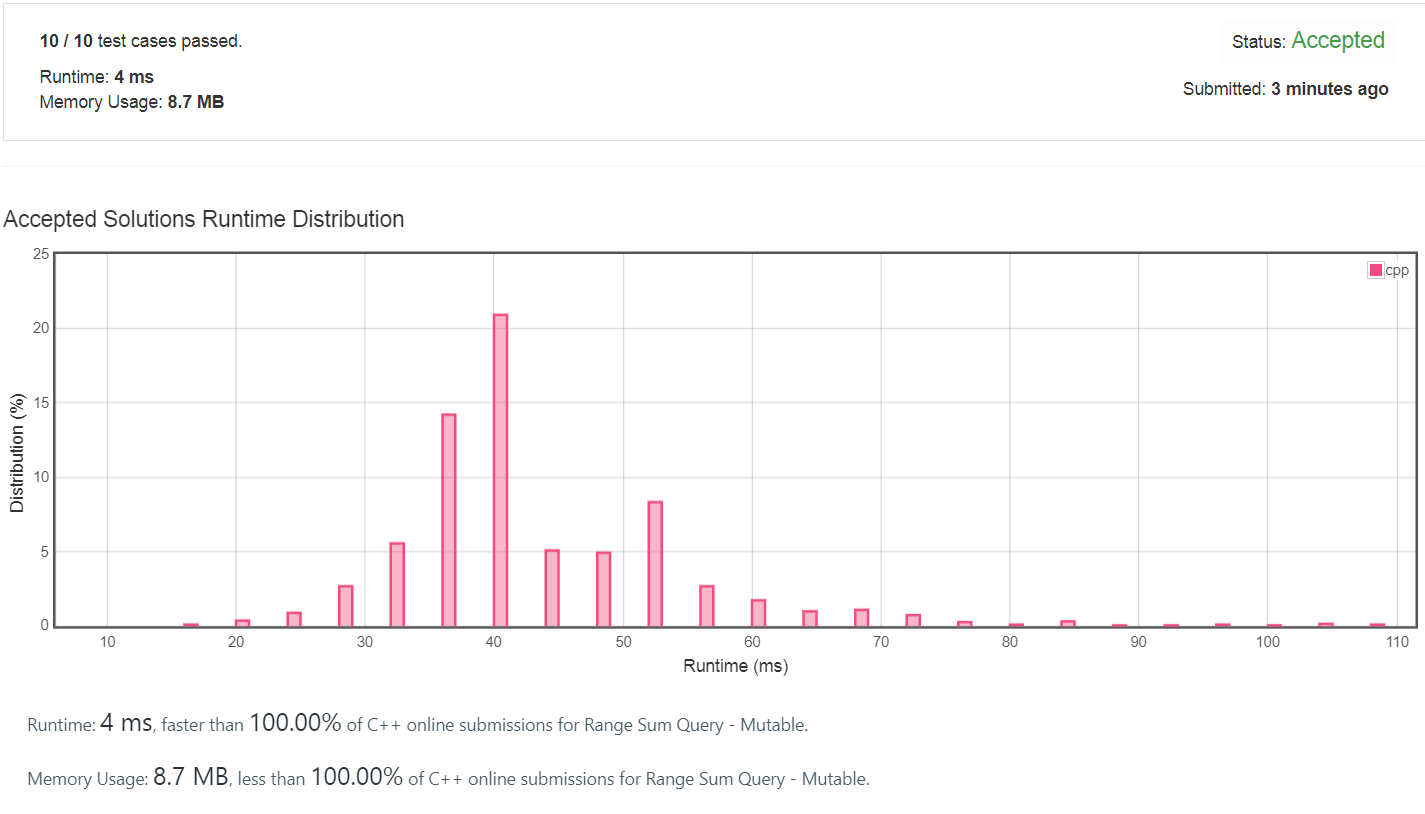
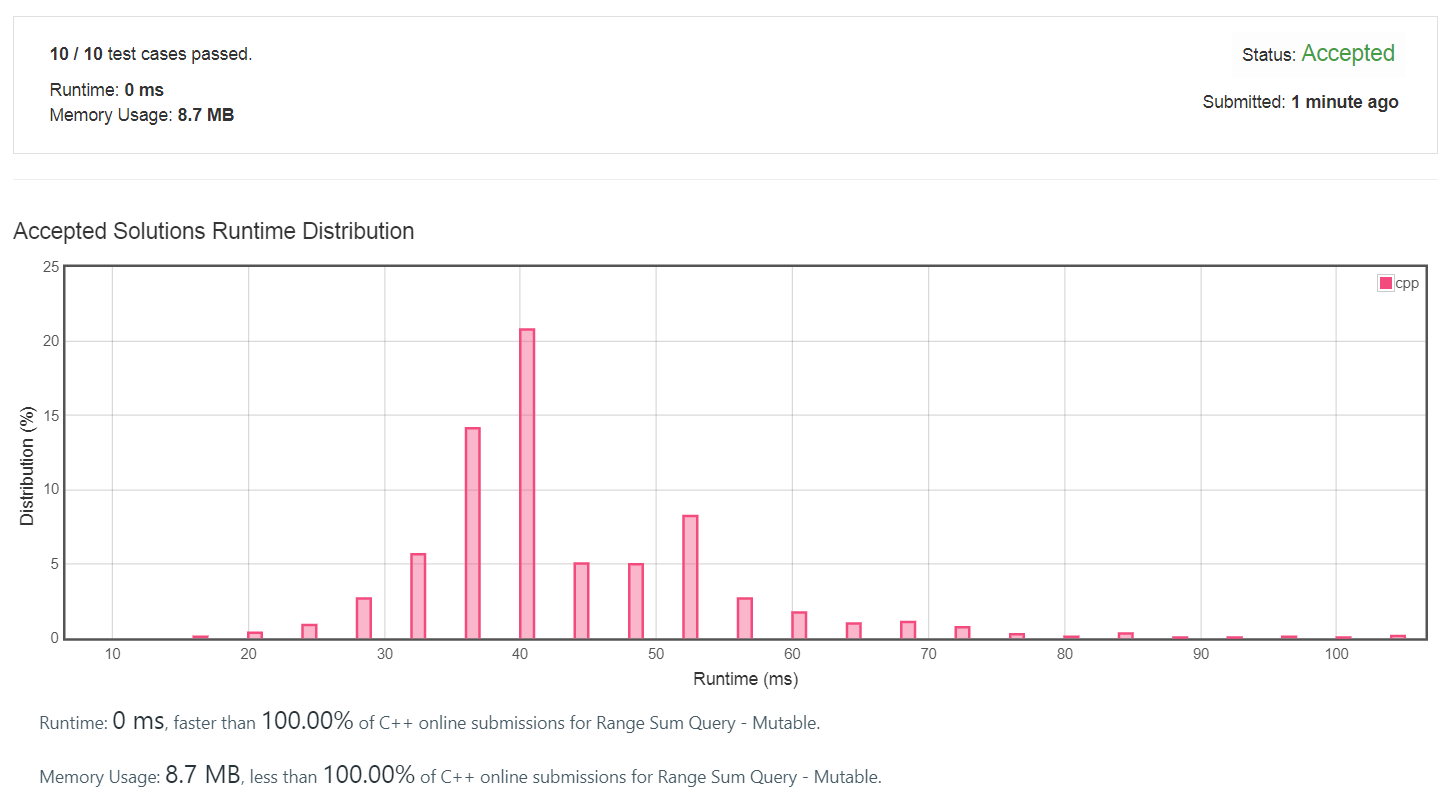
跳出三界外，不在五行中

diff --git a/307. Range Sum Query - Mutable 0ms_hack.cpp b/307. Range Sum Query - Mutable 0ms_hack.cpp
@@ -1,9 +1,11 @@
-//IO
-int _IO=[](){
-    std::ios::sync_with_stdio(0);
-    cin.tie(0); //cout.tie(0);
-    return 0;
-}();
+const int N=20005;
+const int inf=~0U>>1;
+class NumArray {
+public:
+    NumArray(vector<int>& nums) {}
+    void update(int i, int val) {}
+    int sumRange(int i, int j) {return 0;}
+};
 
 //fastIO
 namespace Read{
@@ -67,16 +69,49 @@ namespace Read{
 }
 using namespace Read;
 
+int a[N],c[N],s[N],out[N],n,m,out1;
+char op[N];
+void init(){
+    s[0]=0; for (int i=0;i<n;++i)s[i+1]=s[i]+a[i+1];
+    for (int i=1;i<=n;++i)c[i]=s[i]-s[i-(i&-i)];
+}
+void update(int i, int val) {
+    ++i; int d=val-a[i]; a[i]=val;
+    for (int p=i;p<=n;p+=p&-p)c[p]+=d;
+}
+int sum(int i){
+	int res=0;
+	for (int p=i;p;p-=p&-p)res+=c[p];  //p&=p-1
+	return res;
+}
+int sumRange(int i, int j) {
+    return sum(j+1)-sum(i);
+}
+
 //main
 int _main=[](){
-	//FILE *fout=fopen("./user.out","w");
 	while (1){
 		if (!read_next('['))break;
-		
-	} 
+		read_char_arr(op,m);
+		while (*p++!='['); ++p;
+		read_arr(a+1,n); ++p;
+		init(); out1=0;
+		int b[3],b1;
+		out[out1++]=inf;
+		for (int i=1;i<m;++i){
+			read_arr(b,b1);
+			if (op[i]=='s'){
+				out[out1++]=sumRange(b[0],b[1]);
+			}
+			else {
+				update(b[0],b[1]);
+				out[out1++]=inf;
+			}
+		}
+		print(out,out1);
+	}
 	exit(0);
     return 0;
 }();
-
 
 
